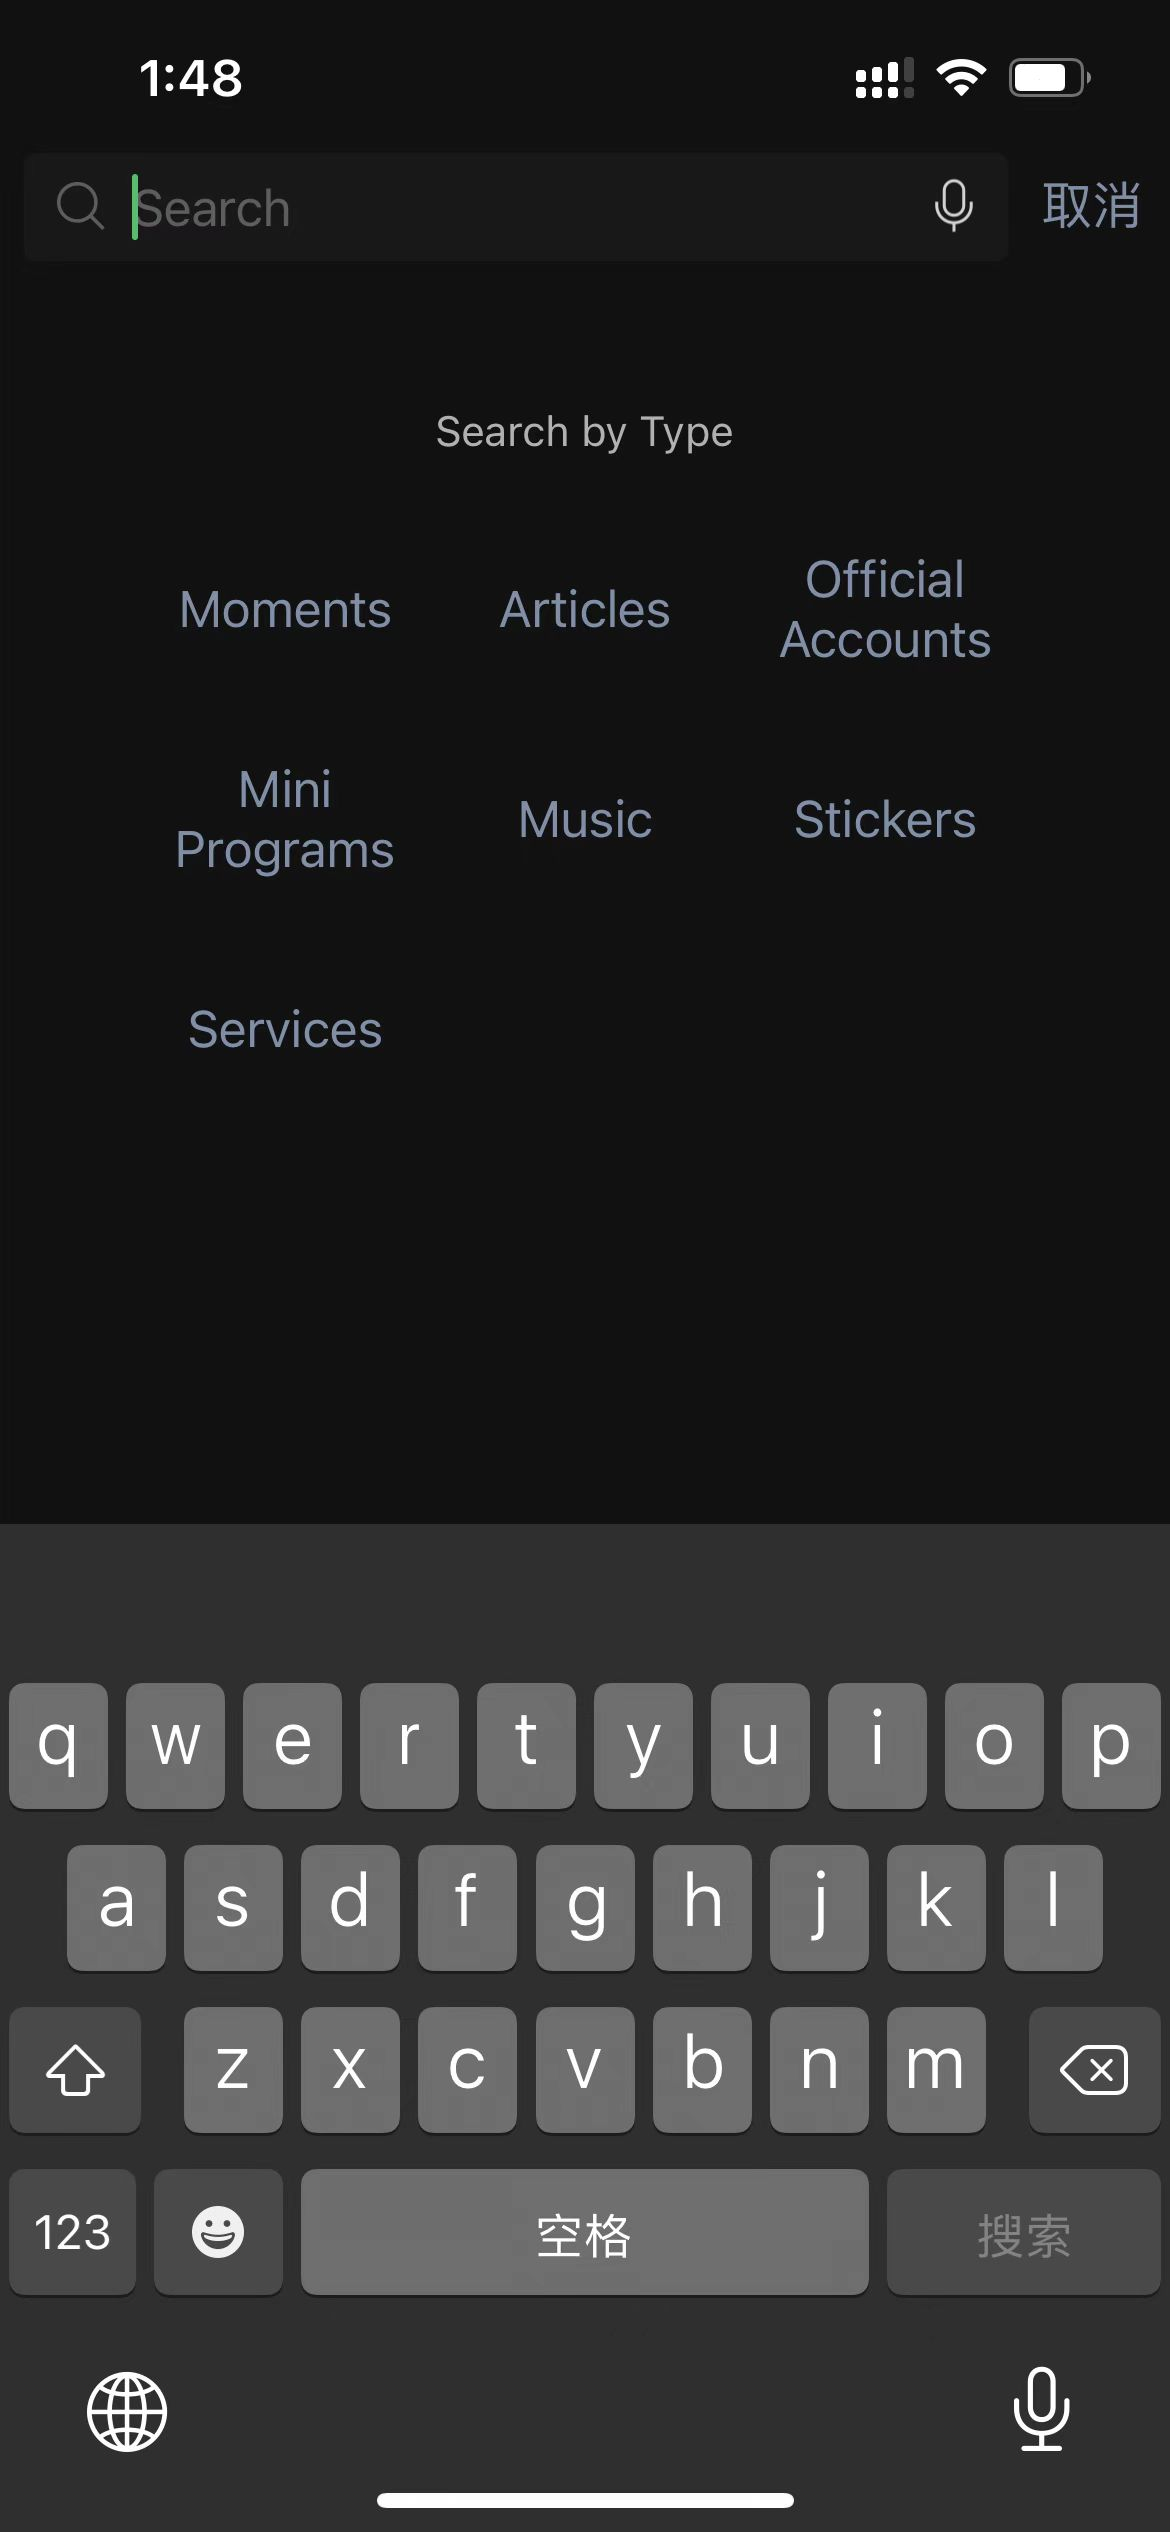
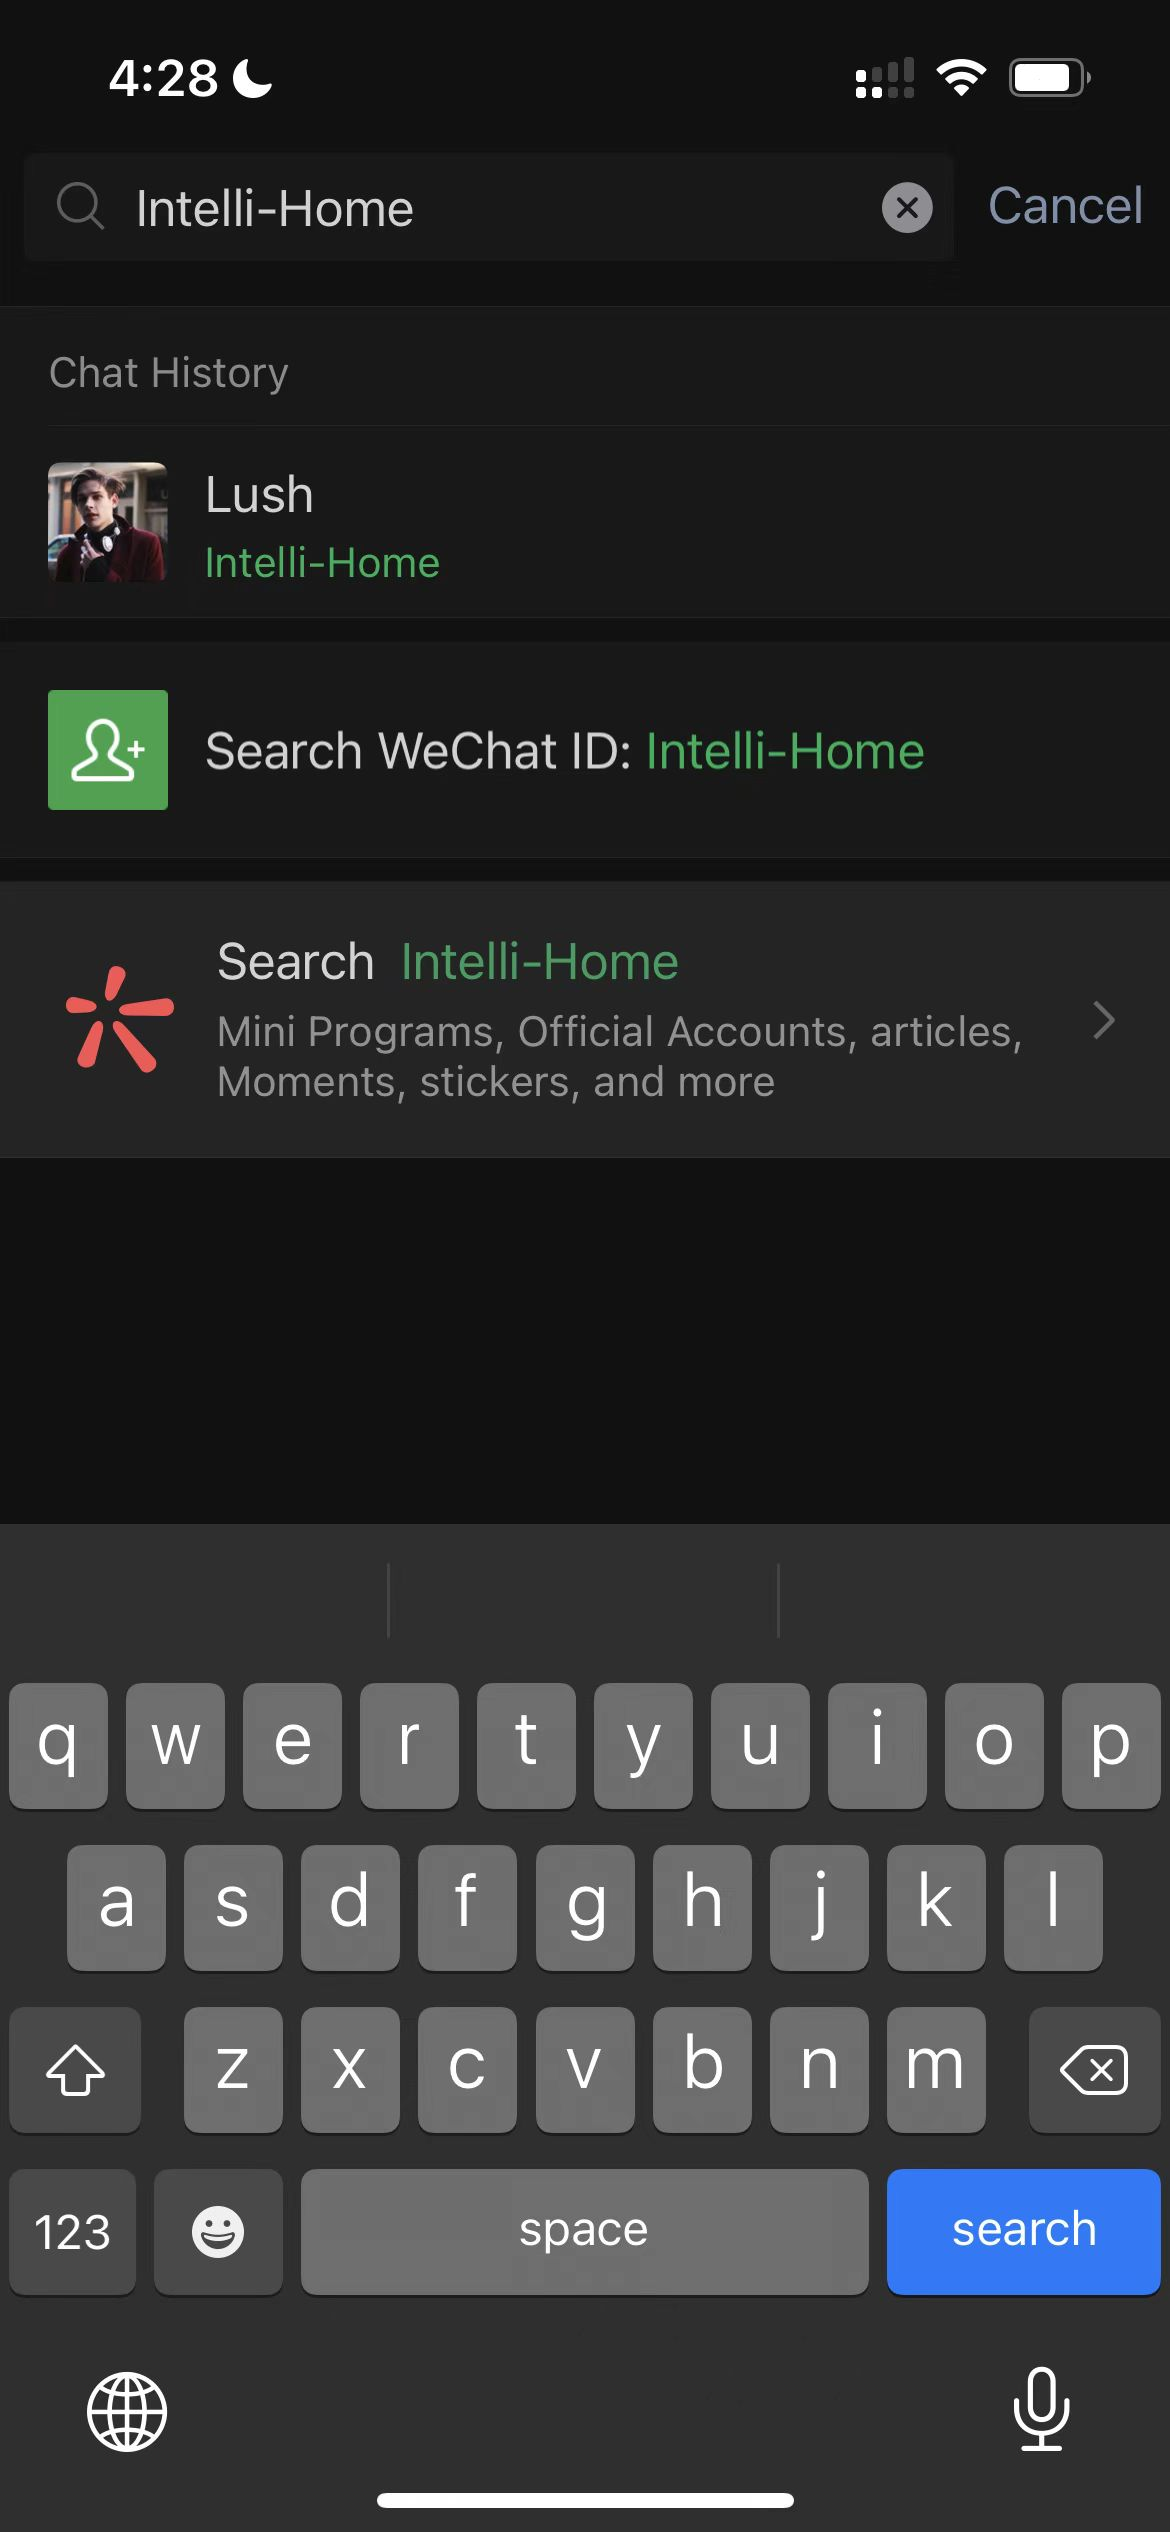
更新maintenance doc

diff --git a/maintenance/Maintenance_doc.md b/maintenance/Maintenance_doc.md
@@ -1,6 +1,6 @@
 # Maintenance Documentation
 
-Here is the maintenance documentation for the WeChat applet developed by Team 202101, 2022-3-31.
+Here is the maintenance documentation for the WeChat applet "**Intelli-Home**" developed by Team 202101, 2022-3-31.
 
 You could find the following information in this documentation:
 
@@ -19,19 +19,20 @@ If you have any suggestions or find problems with the current applet, it is welc
 
 
 
-
-
-
-
 ## 1. Installation instructions & Environment requirements
 
+### 1.1 Installation list
 
+- Recommended  IDE: WeChat development tool
+- Basic component: WeChat
 
-### 1.1 Instruction for developer & maintainer
+### 1.2 Instruction for developer & maintainer
 
 To maintain this applet as a maintainer, it is suggested to install the WeChat development tools.
 
-##### 1.1.1 Mac user
+
+
+##### 1.2.1 Mac user
 
 Operating system requirements:  **macOS 10.9+**
 
@@ -40,11 +41,21 @@ Click the links below to install the stable version of WeChat development tools:
 - [macOS](https://servicewechat.com/wxa-dev-logic/download_redirect?type=darwin&from=mpwiki&download_version=1052203070&version_type=1)
 - [macOS(ARM64)](https://dldir1.qq.com/WechatWebDev/beta/wechat_devtools_1.06.2203070.dmg)
 
+After downloading the files, click **"Open"**
+
+<img src="images\mac_download1.png" style="zoom: 50%;" />
+
+Then drag the **"WeChat Devtools"** to "Applications"
+
+<img src="images\mac_download2.png" style="zoom:50%;" />
+
+Cheers, you could start coding with WeChat development tools now~
+
 For more detailed WeChat development tools installation instructions please refer to the [official website](https://developers.weixin.qq.com/miniprogram/dev/devtools/download.html)
 
 
 
-##### 1.1.2 Windows user
+##### 1.2.2 Windows user
 
 Operating system requirements:  **Windows 7 or above**
 
@@ -53,13 +64,21 @@ Click the links below to install the stable version of WeChat development tools:
 - [Windows 64](https://servicewechat.com/wxa-dev-logic/download_redirect?type=x64&from=mpwiki&download_version=1052203070&version_type=1)
 - [Windows 32](https://servicewechat.com/wxa-dev-logic/download_redirect?type=ia32&from=mpwiki&download_version=1052203070&version_type=1)
 
-For more detailed WeChat development tools installation instructions please refer to the [official website](https://developers.weixin.qq.com/miniprogram/dev/devtools/download.html)
+After downloading the .exe file, click it to start the installation process. 
+
+Then click **"Next step"**, "I Allow" and choose the location of installation, finally click **"Install"** to end up.
+
+Cheers, you could start coding with WeChat development tools now~
+
+For more detailed WeChat development tools installation instructions please refer to the WeChat [official website](https://developers.weixin.qq.com/miniprogram/dev/devtools/download.html)
 
 
 
-### 1.2 Instruction for applet user
+## 1.3 Instruction for applet user
 
-1.2.1 WeChat installation (skip to 1.2.2 if already installed)
+
+
+##### 1.2.1 Prerequisite: WeChat installation (skip to 1.2.2 if already installed)
 
 For iOS users, download the latest version of WeChat from the "App store".
 
@@ -69,17 +88,25 @@ For Android users, download the latest version of  WeChat from your trusted app 
 
 ##### 1.2.2 Search for the applet
 
-Search the applet "" from the top search bar in WeChat
+Search the applet **"Intelli-Home"** from the top search bar in WeChat.
+
+Then click **"Search Intelli-Home"**.
 
 <img src="images\search.jpg" style="zoom:25%;" />
 
 
 
+##### 1.2.3 Start the journey with "Intelli-Home"
 
+Now, you could register an account and start the journey with **"Intelli-Home"**~  
+
+For a more detailed guide, please refer to the user manual in chapter 2.
+
+**Note:** The default login users are with house owner identities, which means you could not create projects or invite members. If you want to create projects please contact your project manager, or contact the manager of this applet (refer to the front of this documentation)
 
 ## 2. User manual
 
-
+Click [here](User_manual.md) to open the detailed user manual.
 
 ## 3. The licenses
 
